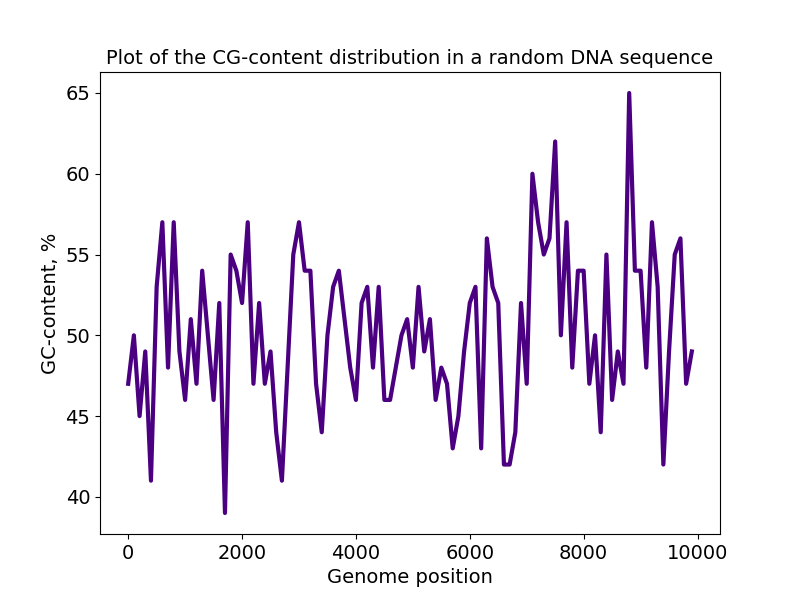
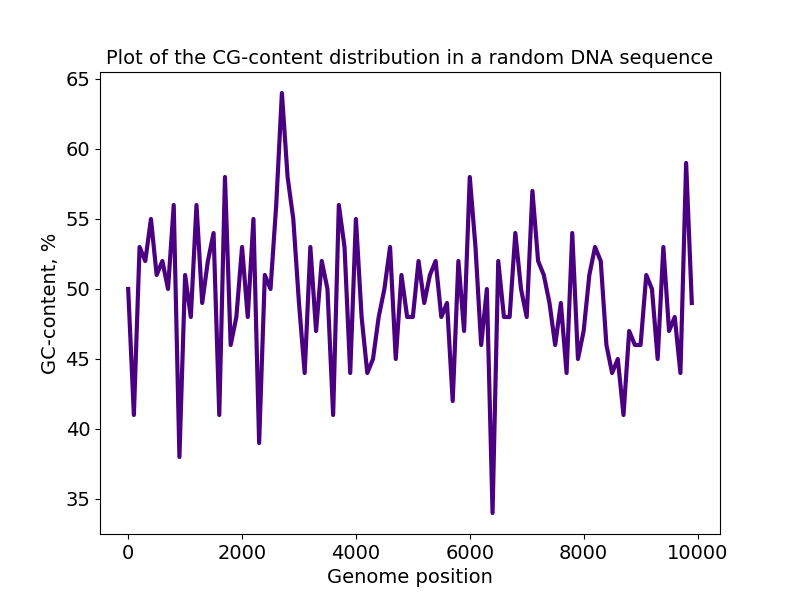
added unit-tests for plotting function and made some other minor modifications

diff --git a/plot_gc_content.py b/plot_gc_content.py
@@ -6,11 +6,11 @@ import random
 IMAGES_DIR = "./gc-content_ratios"
 
 
-def gc_content_ratio(
+def plot_gc_content_ratio(
     genomic_data: str, 
     step: int = 100, 
     dataset_name: str = "random DNA sequence",
-    outfile_name: str = IMAGES_DIR + "/gc-content.png", 
+    outfile_name: str = f"{IMAGES_DIR}/gc-content.png", 
     figsize: tuple = (8, 6),
     fontsize: int = 14,
     linewidth: int = 3,
@@ -19,10 +19,15 @@ def gc_content_ratio(
 
     """
        A function that 
-       (1) calculates CG-content ratio for each of
-       the 'step' segments of the molecule, which DNA sequence
-       is given in the 'genomic_data' parameter and
-       (2) plots the GC ratio and saves the graph to image file
+       (1) analyzes if the input sequence is correct, i.e.
+           contains only DNA bases 'A', 'T', 'G' and 'C'.
+           * If the input is incorrect, returns False and 
+           prints the info about an incorrect input.
+           * If the input is correct:
+             (2) calculates CG-content ratio for each of
+                 the 'step' segments of the molecule, which DNA sequence
+                 is given in the 'genomic_data' parameter and
+             (3) plots the GC ratio and saves the graph to image file
 
        In the plot:
            * x-axis: Genome position -- position of first base
@@ -36,8 +41,29 @@ def gc_content_ratio(
                           By default bin width = 100 characters.
           * other parameters are intended to make the graph 
             prettier and more descriptive
+
+        Returns: 
+            * True if the input sequence is correct,
+            * False, otherwise. No plot is produced
     """
 
+    # convert input sequence to uppercase if lowercase is provided 
+    genomic_data = genomic_data.upper()
+
+    # check the correctness of the input sequence
+    # --------------------------------------------------------    
+    a = genomic_data.count("A")
+    t = genomic_data.count("T")
+    g = genomic_data.count("G")
+    c = genomic_data.count("C")
+
+    if a + t + g + c != len(genomic_data):
+        print("Input sequence is incorrect! Plot is not produced!")
+        return False
+
+
+    # calculate gc-content ratio
+    # --------------------------------------------------------
     molecule_length = len(genomic_data)
     number_of_bins = molecule_length // step
     gc_content = np.zeros(number_of_bins)
@@ -52,6 +78,9 @@ def gc_content_ratio(
             genome_position[index] = start_base
         index += 1
 
+
+    # plot gc-content ratio
+    # --------------------------------------------------------
     plt.figure(figsize = figsize)
     plt.plot(genome_position,
              gc_content,
@@ -65,17 +94,19 @@ def gc_content_ratio(
     plt.savefig(outfile_name)
     plt.close()
 
+    return True
 
-# *** Some tests ***
-#
+
+# *** Some examples: ***
+
 # (1) Plot GC-content distribution for the random DNA sequence
 dna_bases = ["A", "G", "C", "T"]
 genome = ""
-for i in range(10001):
+for i in range(10000):
     base = random.choice(dna_bases)
     genome += base
 
-gc_content_ratio(genome)
+plot_gc_content_ratio(genome)
 
 
 # (2) Plot the GC-content distribution for the SARS-CoV-2 genome
@@ -91,7 +122,7 @@ with open("./covid/ncbi_dataset/data/genomic.fna", "r") as dataset:
             continue
         covid_genome += line.replace("\n", "")
 
-gc_content_ratio(covid_genome, 
+plot_gc_content_ratio(covid_genome, 
                  dataset_name = "SARS-CoV-2 genome",
-                 outfile_name = IMAGES_DIR + "/Corona.png" 
+                 outfile_name = f"{IMAGES_DIR}/Corona.png"
                 )

diff --git a/test_plotter.py b/test_plotter.py
@@ -1,0 +1,87 @@
+import os
+import random
+import unittest
+from ddt import ddt, data
+from plot_gc_content import plot_gc_content_ratio
+
+
+# Create folder with test plots
+# ---------------------------------------------------
+TEST_IMAGES_DIR = "./tests/gc-content_plots"
+try:
+    os.mkdir(TEST_IMAGES_DIR)
+except FileExistsError:
+	print(f"Folder {TEST_IMAGES_DIR} already exists")
+
+"""
+Prepare input test data: correct one contains only
+letters which represent DNA bases: A, T, G, C
+"""
+# ---------------------------------------------------
+dna_bases = "atgc"
+alphabet = "ABCDEFGHIJKLMNOPQRSTUVWXYZ"
+
+
+correct_input = ""
+incorrect_input = ""
+for i in range(1000):
+    correct_input += random.choice(dna_bases)
+    incorrect_input += random.choice(alphabet)
+
+
+""" names of the output images: 
+if the input is correct, an output image "test_correct.png" 
+should be produced; 
+if the input is incorrect, an output image "test_correct.png" 
+should NOT be produced; 
+"""
+# ---------------------------------------------------
+correct_output = "test_correct.png"
+incorrect_output = "test_incorrect.png"
+
+
+# create unit tests
+# ---------------------------------------------------
+class PlotterTest(unittest.TestCase):
+    """
+    The class for unit-testing the function
+    that plots gc-content ratio. 
+
+    The function is imported from the file "plot_gc_content.py".
+    It create a plot and returns True if only the input is a 
+    correct DNA sequence (does not contain any symbols except
+    "A", "T", "G" and "C"; upper/lower-case does not matter)
+
+    If the input is incorrect, no plot is produced and False 
+    is returned.
+    """
+
+    def test_correct_input(self):
+    	self.assertTrue(
+    	    plot_gc_content_ratio(
+    	        genomic_data = correct_input,
+    	        outfile_name = f"{TEST_IMAGES_DIR}/{correct_output}"
+    	    )
+        )
+
+    def test_incorrect_input(self):
+    	self.assertFalse(
+    	    plot_gc_content_ratio(
+    		    genomic_data = incorrect_input,
+    		    outfile_name = f"{TEST_IMAGES_DIR}/{incorrect_output}"
+    	    )
+        )
+
+    def test_image_exists_if_input_correct(self):
+        imagedir = os.listdir(TEST_IMAGES_DIR)
+        self.assertIn(correct_output, imagedir)
+
+    def test_no_image_if_input_incorrect(self):
+        imagedir = os.listdir(TEST_IMAGES_DIR)
+        self.assertNotIn(incorrect_output, imagedir)    	
+
+
+# perform unit tests
+# ---------------------------------------------------
+if __name__ == '__main__':
+    unittest.main()

diff --git a/test_converters.py b/test_converters.py
@@ -1,5 +1,5 @@
 import unittest
-from ddt import ddt, data, unpack
+from ddt import ddt, data
 from converters import convert_dna_to_rna, convert_rna_to_protein
 
 
@@ -32,7 +32,7 @@ with open("tests/test_data.csv") as file:
 @ddt
 class ConverterTest(unittest.TestCase):
     """
-    A class that creates unit tests for the two 
+    The class that creates unit tests for the two 
     converter functions: dna to rna and 
     rna to protein
 
